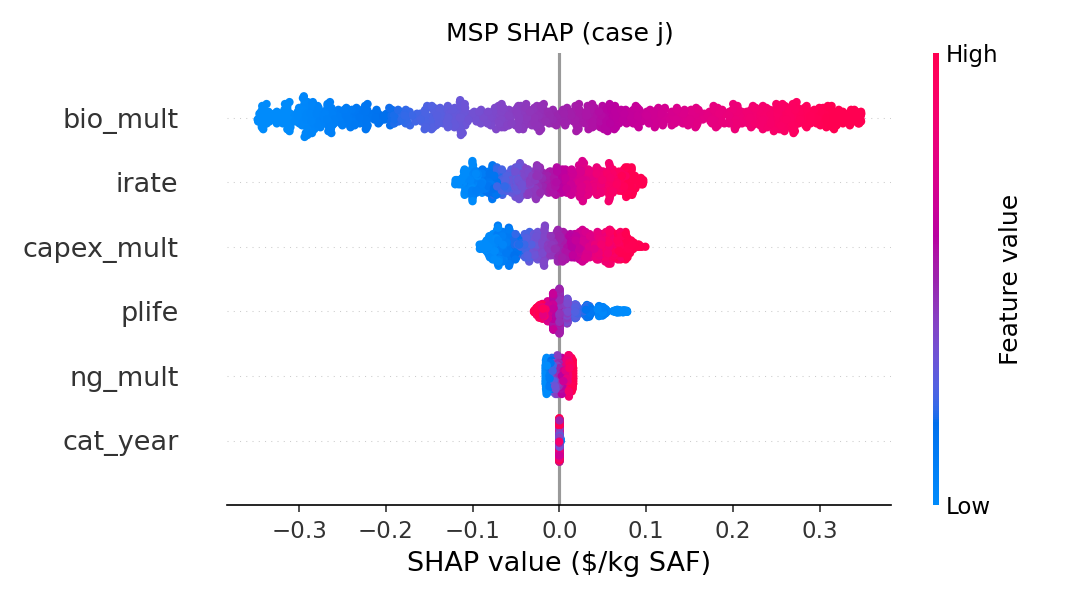
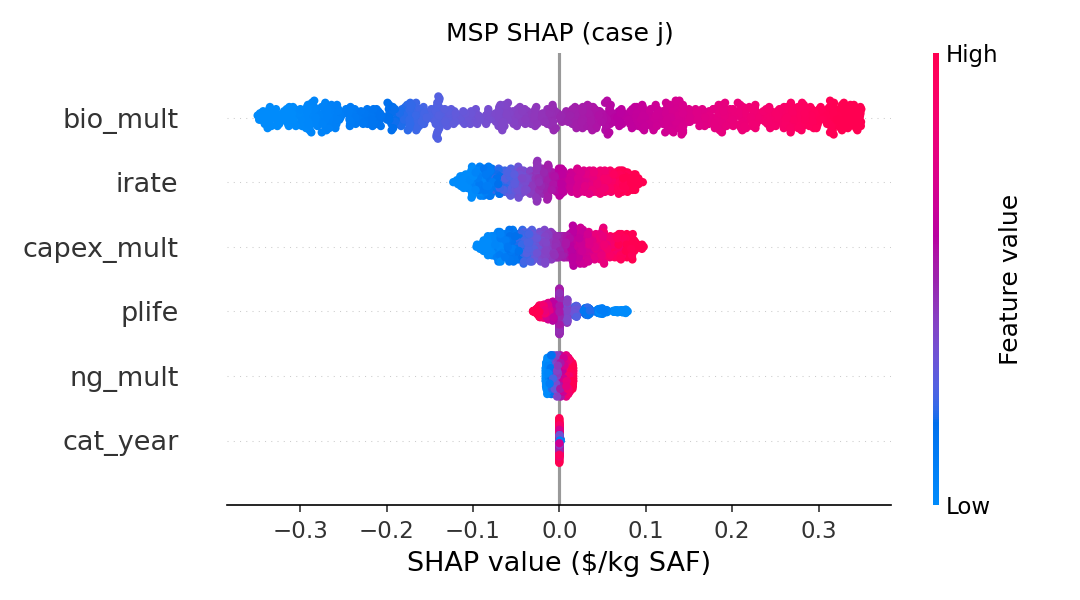
Extend MSP KernelSHAP to base scenarios i/j/k + cross-case comparison
Per-case SHAP (shap_msp_case{i,j,k}) plus grouped mean|SHAP| bars
(shap_msp_compare). Ranking is stable across cases; magnitude tracks
each case's baseline MSP.

Claude-Session: https://claude.ai/code/session_01X1rErDywrJnKQrxkbG3xXS

diff --git a/sa/shap_sa.py b/sa/shap_sa.py
@@ -47,11 +47,13 @@ MSP_NAMES = ["bio_mult", "ng_mult", "capex_mult", "irate", "plife", "cat_year"]
 MSP_LO    = [0.50, 0.50, 0.70, 0.08, 10, 1]
 MSP_HI    = [1.50, 1.50, 1.30, 0.20, 20, 5]
 MSP_BASE  = [1.00, 1.00, 1.00, 0.15, 15, 3]
-def f_msp(X):
-    d = M.cases["j"]
-    return np.array([M.solve_msp(d, bio_mult=r[0], ng_mult=r[1], capex_mult=r[2],
-                                 irate=r[3], plife=r[4], cat_year=r[5], cat_replace=True)
-                     for r in np.atleast_2d(X)])
+def make_f_msp(case):
+    d = M.cases[case]
+    def f(X):
+        return np.array([M.solve_msp(d, bio_mult=r[0], ng_mult=r[1], capex_mult=r[2],
+                                     irate=r[3], plife=r[4], cat_year=r[5], cat_replace=True)
+                         for r in np.atleast_2d(X)])
+    return f
 
 # ---------------- GWP (linear EF scaling) ----------------
 # ponytail: replicated from lca_oat_from_excel.py rather than refactor that working
@@ -83,8 +85,25 @@ GWP_HI    = [1 + p for p in GWP_PCT]
 GWP_BASE  = [1.0] * 6
 
 if __name__ == "__main__":
-    sv_m, _, _ = run_shap(f_msp, MSP_NAMES, MSP_LO, MSP_HI, MSP_BASE,
-                          "msp_casej", "MSP SHAP (case j)", "$/kg SAF")
+    # MSP SHAP per base scenario i, j, k
+    msp_imp = {}
+    for c in ("i", "j", "k"):
+        sv, _, _ = run_shap(make_f_msp(c), MSP_NAMES, MSP_LO, MSP_HI, MSP_BASE,
+                            f"msp_case{c}", f"MSP SHAP (case {c})", "$/kg SAF")
+        msp_imp[c] = np.abs(sv).mean(0)
+    # cross-case comparison: mean|SHAP| per feature, grouped bars
+    cmp = pd.DataFrame(msp_imp, index=MSP_NAMES)
+    cmp = cmp.loc[cmp.mean(1).sort_values(ascending=False).index]
+    cmp.to_csv(os.path.join(HERE, "shap_msp_compare.csv"))
+    print("\n== MSP mean|SHAP| across cases ==")
+    print(cmp.to_string())
+    ax = cmp.plot.barh(figsize=(7.2, 4.0), width=0.8)
+    ax.invert_yaxis(); ax.set_xlabel("mean|SHAP|  ($/kg SAF)")
+    ax.set_title("MSP feature importance across base scenarios i/j/k")
+    ax.legend(title="case"); plt.tight_layout()
+    plt.savefig(os.path.join(HERE, "shap_msp_compare.png"), dpi=150); plt.close()
+    print("saved: shap_msp_compare.csv, shap_msp_compare.png")
+
     sv_g, Xg, _ = run_shap(f_gwp, GWP_NAMES, GWP_LO, GWP_HI, GWP_BASE,
                            "lca", "LCA GWP SHAP", "gCO2/MJ")
     # linearity check: KernelSHAP must recover analytic contribution shares k*c*(x-1)
